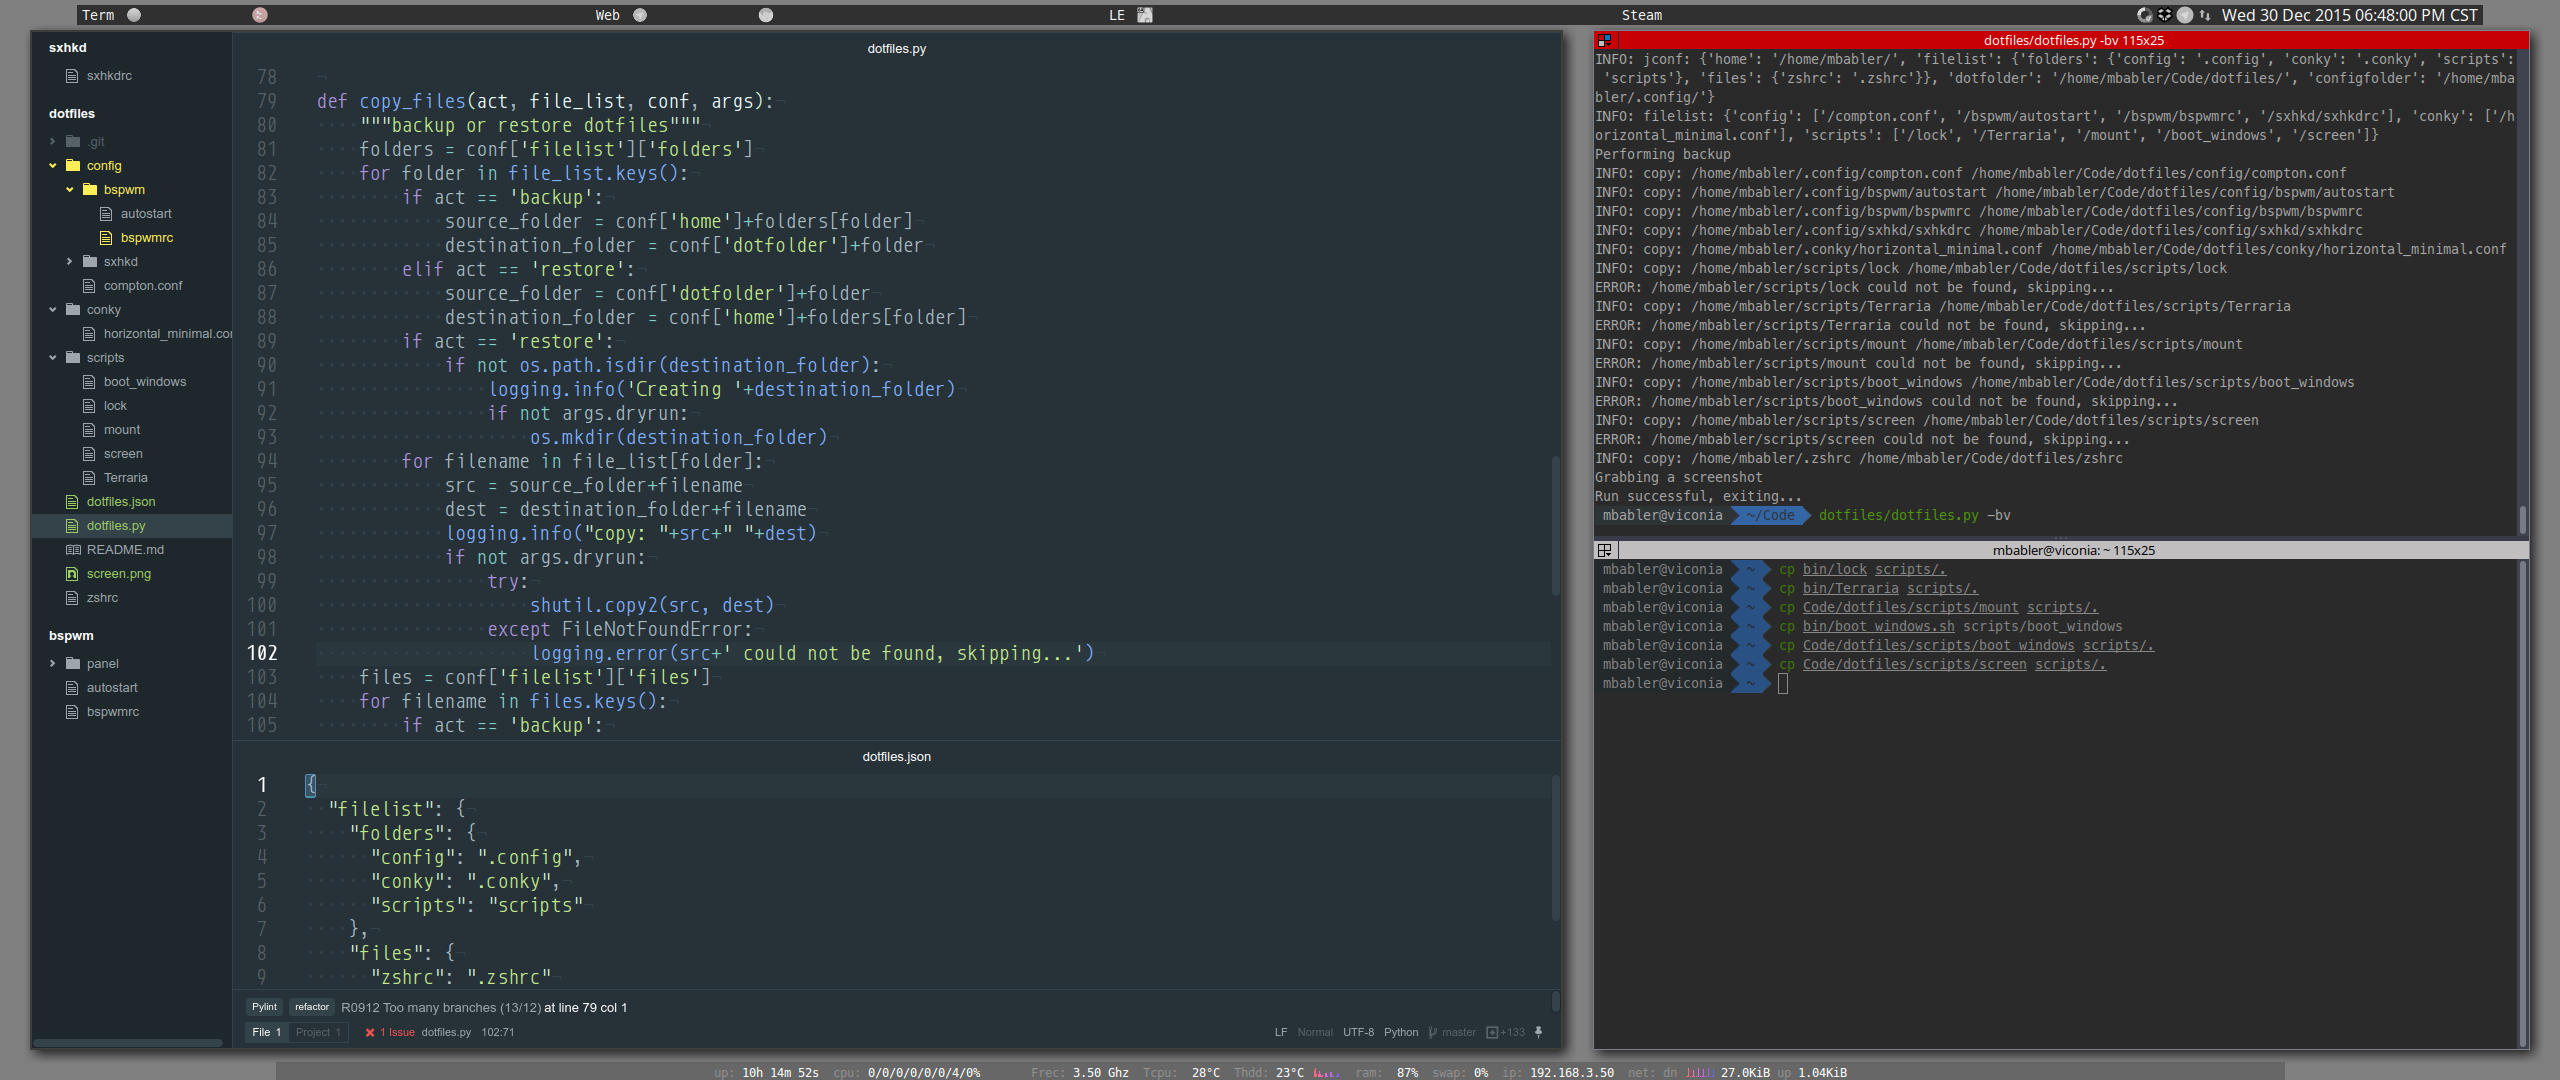
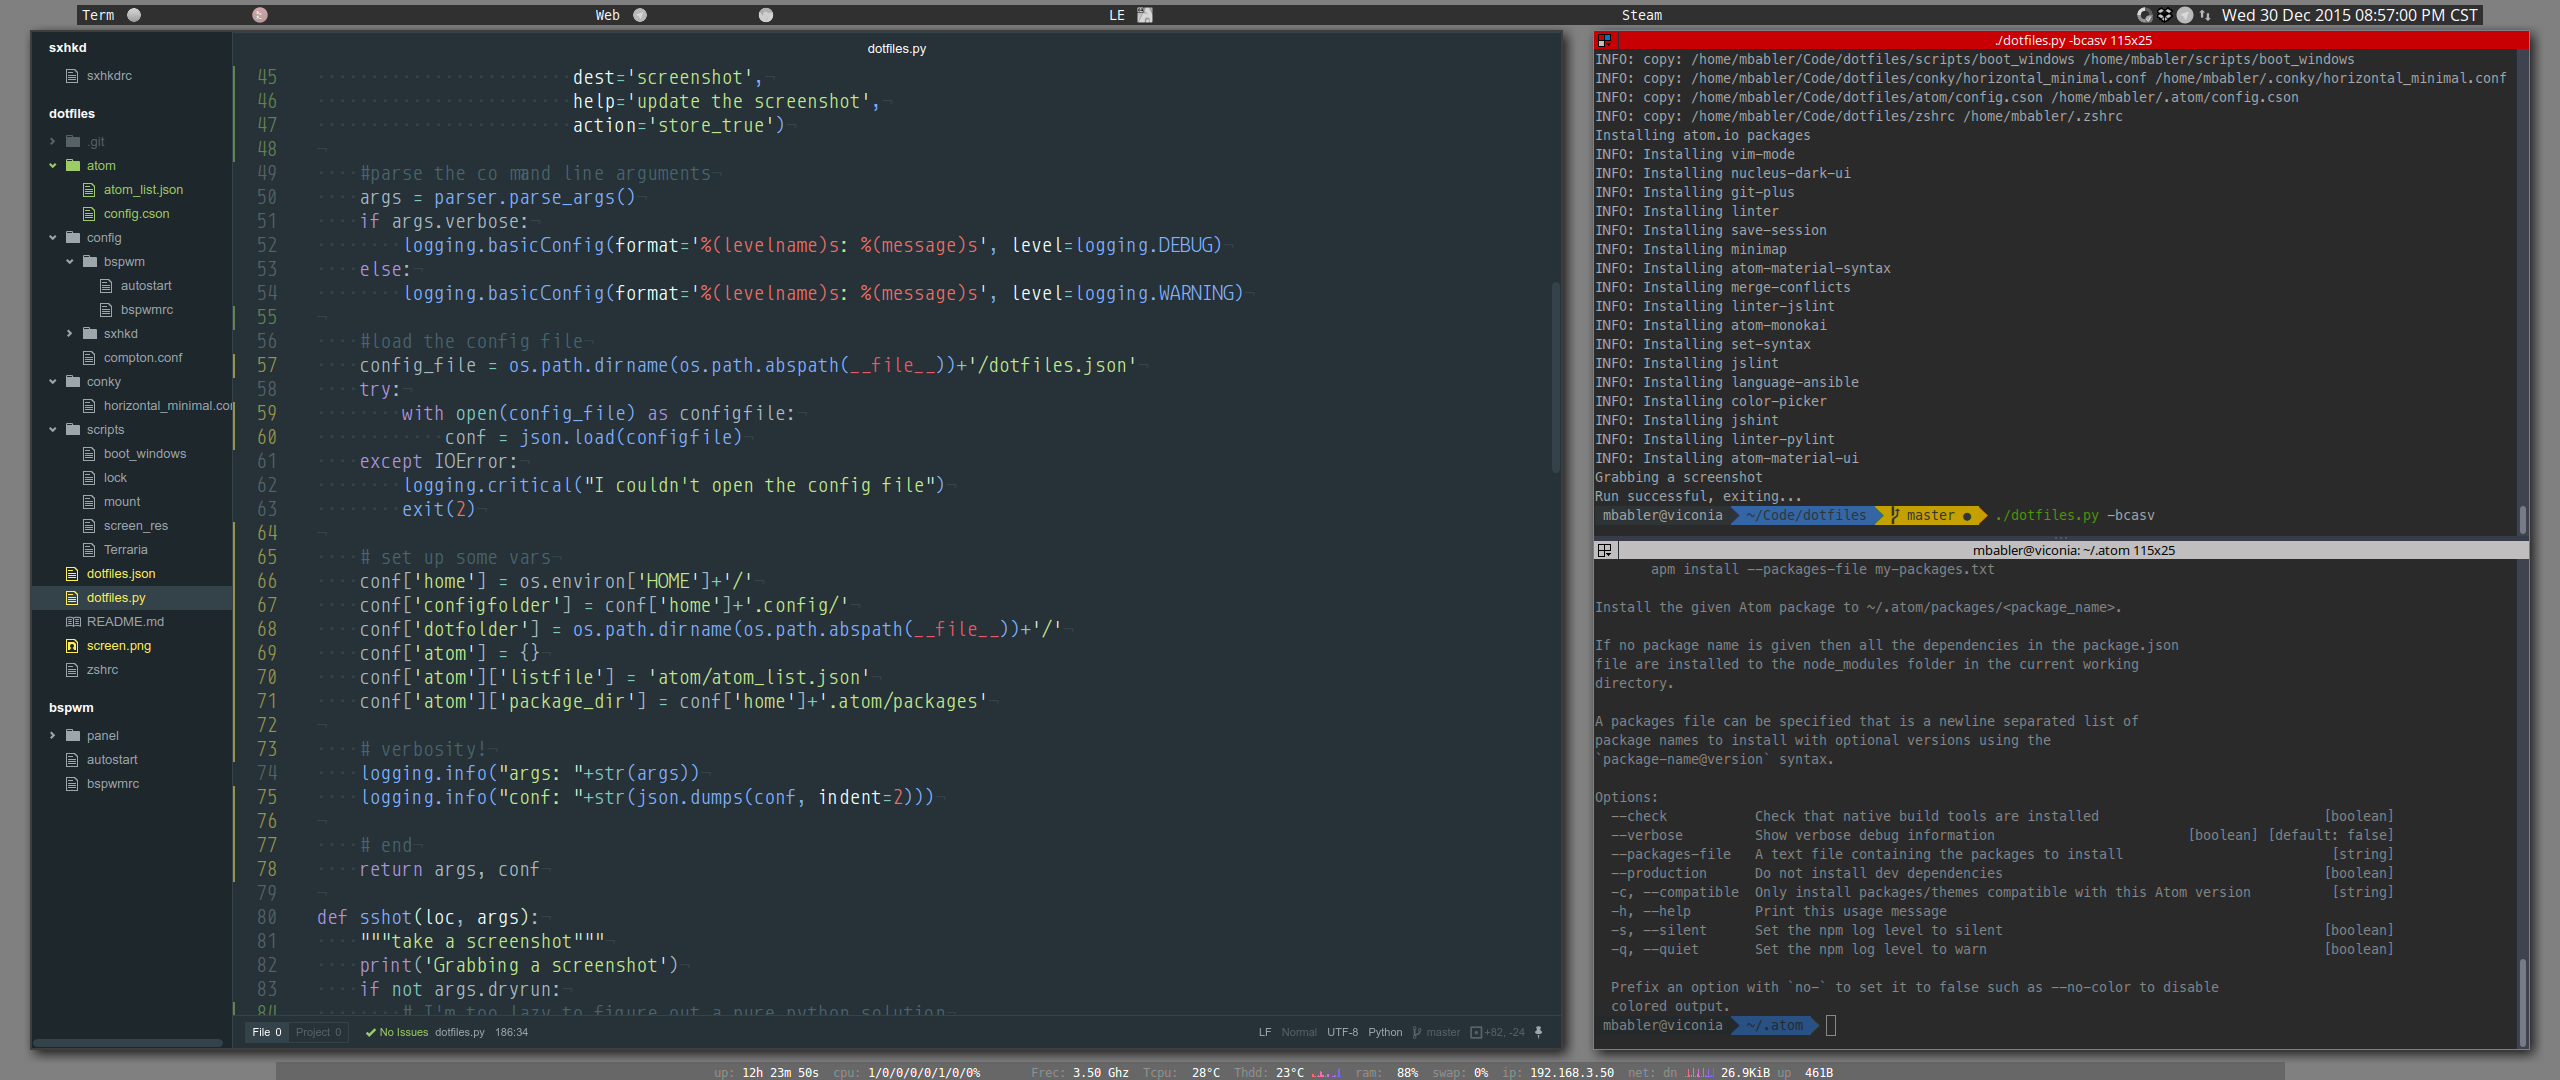
add atom.io to backup/restore

diff --git a/dotfiles.py b/dotfiles.py
@@ -10,57 +10,104 @@ import logging
 def config():
     """do configuration stuff"""
     parser = argparse.ArgumentParser(description='backup or restore dotfiles')
-    parser.add_argument('-c',
-                        '--config',
-                        default='dotfiles.json',
-                        dest='config',
-                        help='path to config file',
-                        metavar='/path/to/file')
     parser.add_argument('-b',
                         '--backup',
                         dest='backup',
+                        help='perform backup actions',
                         action='store_true')
     parser.add_argument('-r',
                         '--restore',
                         dest='restore',
+                        help='perform restore actions',
                         action='store_true')
     parser.add_argument('-v',
+                        '--verbose',
                         dest='verbose',
                         help='extra output',
                         action='store_true')
+    parser.add_argument('-c',
+                        '--config',
+                        dest='config',
+                        help='include config files',
+                        action='store_true')
+    parser.add_argument('-a',
+                        '--atomio',
+                        dest='atomio',
+                        help='include atom packages',
+                        action='store_true')
     parser.add_argument('-d',
+                        '--dryrun',
                         dest='dryrun',
                         help='run, but don\'t actually copy anything',
                         action='store_true')
+    parser.add_argument('-s',
+                        '--screenshot',
+                        dest='screenshot',
+                        help='update the screenshot',
+                        action='store_true')
+
     #parse the command line arguments
     args = parser.parse_args()
     if args.verbose:
         logging.basicConfig(format='%(levelname)s: %(message)s', level=logging.DEBUG)
     else:
         logging.basicConfig(format='%(levelname)s: %(message)s', level=logging.WARNING)
+
     #load the config file
-    if args.config == 'dotfiles.json':
-        config_file = os.path.dirname(os.path.abspath(__file__))+'/dotfiles.json'
-    else:
-        config_file = args.config
+    config_file = os.path.dirname(os.path.abspath(__file__))+'/dotfiles.json'
     try:
-        with open(config_file) as file:
-            jconf = json.load(file)
+        with open(config_file) as configfile:
+            conf = json.load(configfile)
     except IOError:
         logging.critical("I couldn't open the config file")
         exit(2)
-    jconf['home'] = os.environ['HOME']+'/'
-    jconf['configfolder'] = jconf['home']+'.config/'
-    jconf['dotfolder'] = os.path.dirname(os.path.abspath(__file__))+'/'
+
+    # set up some vars
+    conf['home'] = os.environ['HOME']+'/'
+    conf['configfolder'] = conf['home']+'.config/'
+    conf['dotfolder'] = os.path.dirname(os.path.abspath(__file__))+'/'
+    conf['atom'] = {}
+    conf['atom']['listfile'] = 'atom/atom_list.json'
+    conf['atom']['package_dir'] = conf['home']+'.atom/packages'
+
+    # verbosity!
     logging.info("args: "+str(args))
-    logging.info("jconf: "+str(jconf))
-    return args, jconf
+    logging.info("conf: "+str(json.dumps(conf, indent=2)))
+
+    # end
+    return args, conf
 
 def sshot(loc, args):
     """take a screenshot"""
     print('Grabbing a screenshot')
     if not args.dryrun:
+        # I'm too lazy to figure out a pure python solution
         os.system('scrot '+loc+'screen.png')
+
+def atom_mod_list(conf, args):
+    """get a list of installed atom packages"""
+    path = conf['atom']['package_dir']
+    pkg_list = os.listdir(path)
+    pkg_list.remove('README.md')
+    # make it a json object
+    jlist = {'packages': pkg_list}
+    logging.info(json.dumps(jlist, indent=2))
+    if not args.dryrun:
+        with open(conf['atom']['listfile'], 'w') as jfile:
+            json.dump(jlist, jfile, indent=2)
+
+def install_atom_packages(conf, args):
+    """install all atom packages"""
+    with open(conf['atom']['listfile'], 'r') as pkgfile:
+        pkg_list = json.load(pkgfile)
+    for pkg in pkg_list['packages']:
+        cmd = 'apm install '+pkg
+        logging.info('Installing '+pkg)
+        if not args.dryrun:
+            try:
+                os.system(cmd)
+            except OSError as err:
+                logging.warning('Faild to install '+pkg+': '+err)
 
 def build_file_list(conf):
     """build a list of dotfiles"""
@@ -73,7 +120,7 @@ def build_file_list(conf):
                 strip = conf['dotfolder']+folder
                 fstub = data[0][len(strip):]+'/'+filename
                 filelist[folder].append(fstub)
-    logging.info("filelist: "+str(filelist))
+    logging.info("filelist: "+str(json.dumps(filelist, indent=2)))
     return filelist
 
 def copy(src, dest, args):
@@ -120,14 +167,25 @@ def main():
     args, conf = config()
     file_list = build_file_list(conf)
     if args.backup:
-        print("Performing backup")
-        copy_files('backup', file_list, conf, args)
+        print('Performing backup')
+        if args.config:
+            print('Backing up configs')
+            copy_files('backup', file_list, conf, args)
+        if args.atomio:
+            print('Backing up atom package list')
+            atom_mod_list(conf, args)
     elif args.restore:
-        print("Performing restore")
-        copy_files('restore', file_list, conf, args)
+        print('Performing restore')
+        if args.config:
+            print('Restoring config files')
+            copy_files('restore', file_list, conf, args)
+        if args.atomio:
+            print('Installing atom.io packages')
+            install_atom_packages(conf, args)
     else:
-        logging.error('Your forgot to specify backup or restore')
-    sshot(conf['dotfolder'], args)
+        logging.error('Your failed to specify backup or restore')
+    if args.screenshot:
+        sshot(conf['dotfolder'], args)
     print('Run successful, exiting...')
     exit(0)
 
